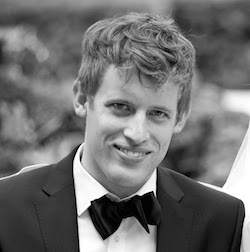
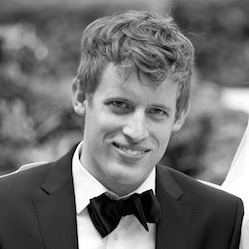
add opengraph data and use quadratic image

diff --git a/index.html b/index.html
@@ -15,6 +15,13 @@
     <meta name="application-name" content="SPARKBROOK ♡ SOFTWARE">
     <meta name="theme-color" content="#0aae88">
 
+    <meta property="og:image" content="/david.jpg">
+    <meta property="og:image:width" content="249">
+    <meta property="og:image:height" content="249">
+    <meta property="og:description" content="Free web development classes in Sparkbrook. I would love to see you!">
+    <meta property="og:title" content="Sparkbrook ♡ Software">
+    <meta property="og:url" content="https://sparkbrook.loves.software">
+
     <script defer src="https://npmcdn.com/smoothscroll@0.3.0"></script>
 
     <title>SPARKBROOK ♡ SOFTWARE</title>
